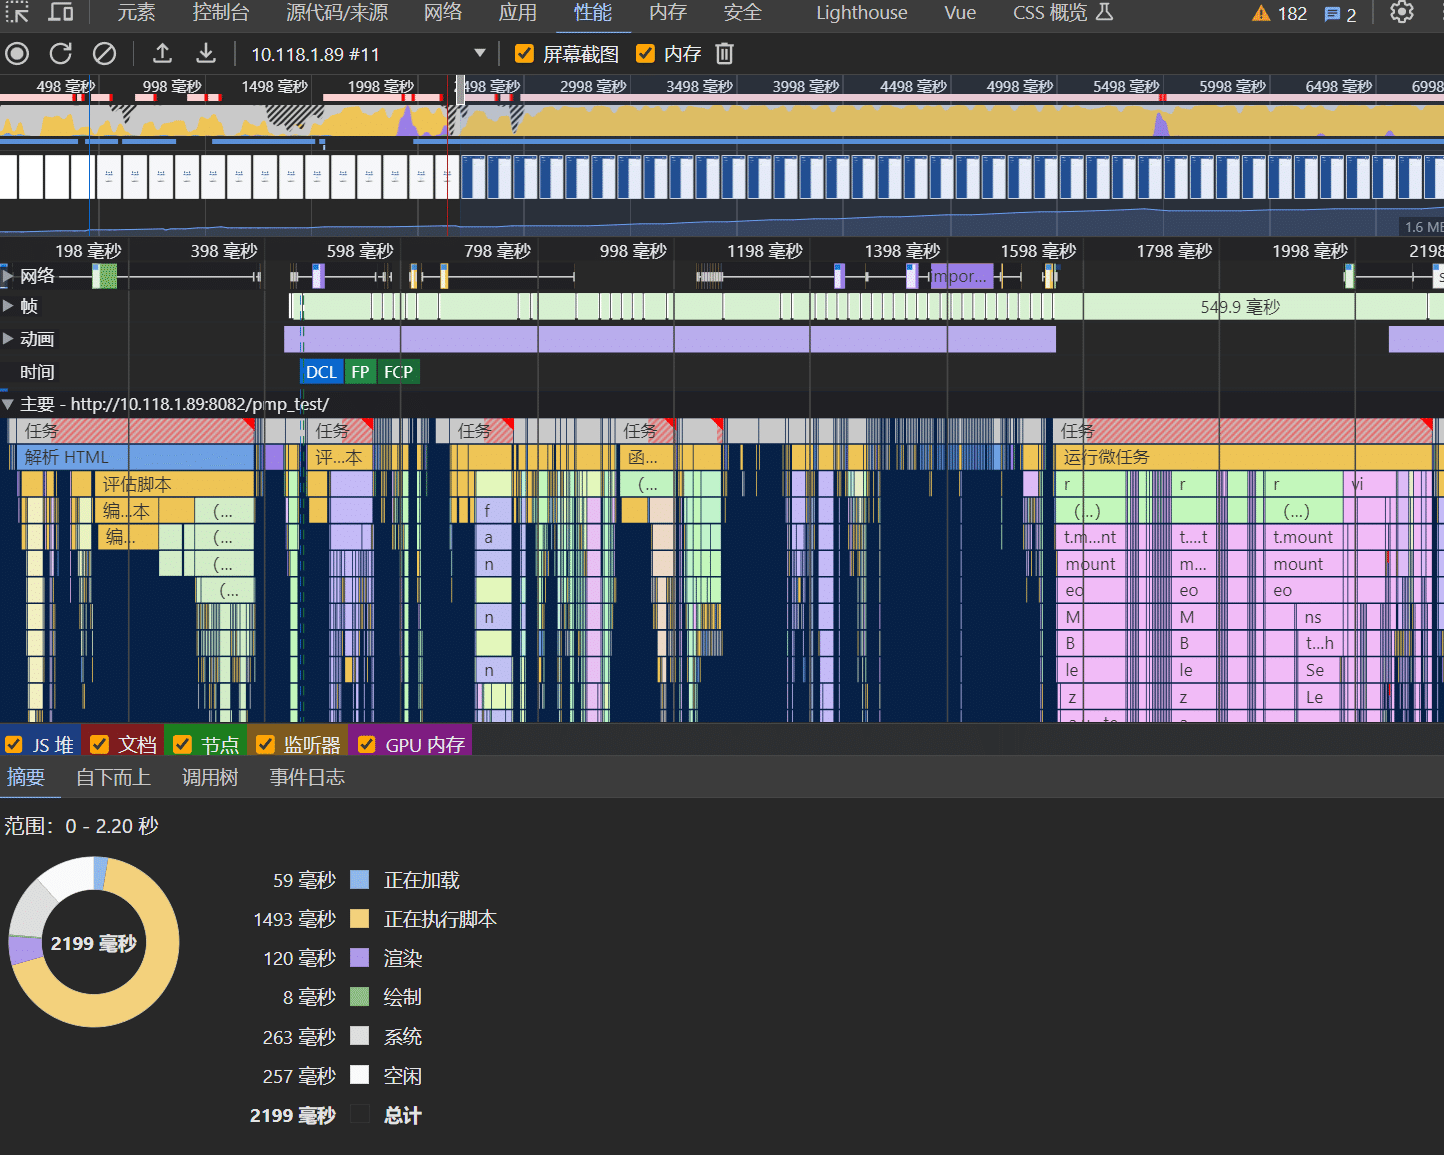
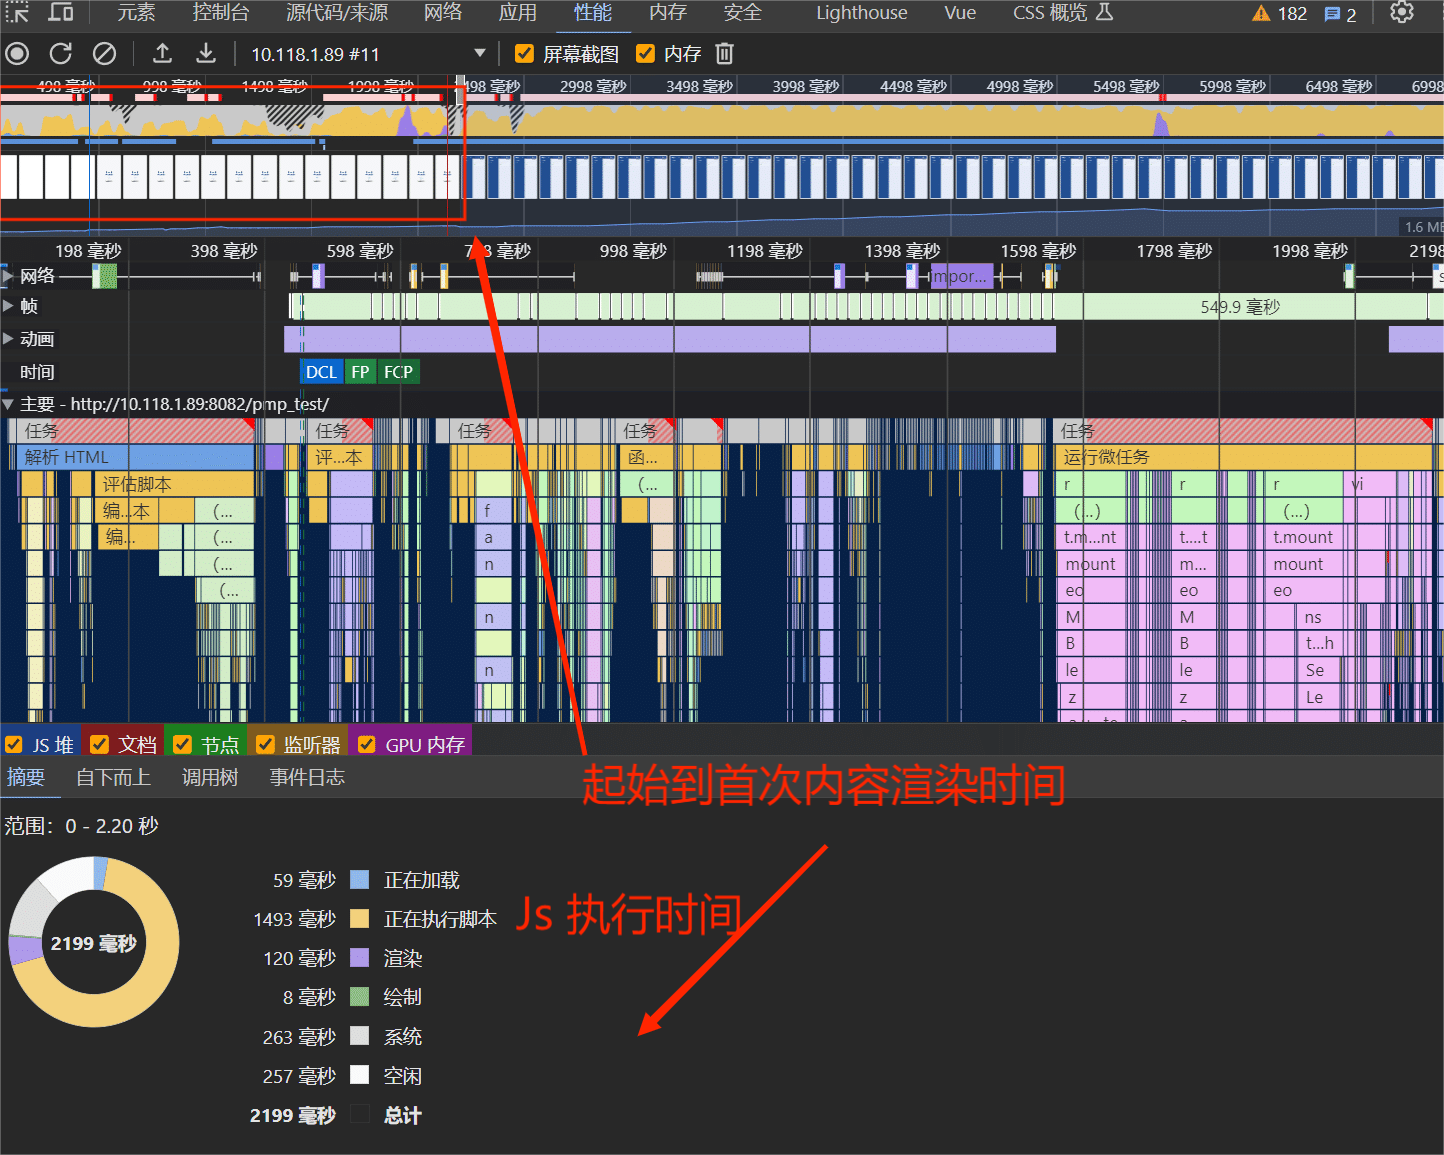
feat: 修改一次后台管理性能优化文章

diff --git a/docs/performance/一次管理后台的渲染优化.md b/docs/performance/一次管理后台的渲染优化.md
@@ -52,29 +52,48 @@
 
 ### DOM 渲染分析
 
-* 打开待分析页面，点击 F12 ，使用 Chrome 性能分析工具，对页面进行录制：
+#### **页面渲染录制**
 
-  * ![分析过程](../images/分析过程.gif)
+打开待分析页面，点击 F12 ，使用 Chrome 性能分析工具，对页面进行录制：
 
-* 结果分析：
+* ![分析过程](../images/分析过程.gif)
 
-  * 页面初始加载到完成全流程分析：
+#### **结果分析**
 
-    ![image-20231031161423297](../images/pmp-页面初始加载到完成全流程分析.png)
+##### **白屏时间分析**
 
-  * 白屏时间分析：![image-20231031161456624](../images/pmp-页面初始加载到完成全流程分析1.png)
+![image-20231031161456624](../images/pmp-页面初始加载到完成全流程分析1.png)
 
-    * 根据分析结果可知，首屏白屏时间总耗时 2199ms ，其中 js 耗时占比最高：1493ms；
+> 通过 Chrome 分析工具选取上半部分时间片，选取白屏时间和loading时间段（在起始到显示初始页面之间），查看摘要：
+>
+> * 首屏白屏时间总耗时 2199ms;
+> * JavaScript 执行时间为1493ms；
 
-  * 首屏显示到渲染完成分析：
-  
-    ![image-20231031161705009](../images/pmp-页面初始加载到完成全流程分析2.png)
-  
-    * 根据分析结果可知，首屏白屏时间总耗时 2199ms ，其中 js 耗时占比最高：1493ms；
+
+
+##### **首屏显示到渲染完成分析**
+
+![image-20231031161705009](../images/pmp-页面初始加载到完成全流程分析2.png)
+
+> 通过 Chrome 分析工具选取上半部分时间片，选取初始显示到全部内容绘制时间，查看摘要：
+>
+> * 总耗时 5036ms;
+> * JavaScript 执行时间为 4847ms；
+
+通过以上两段时间分析发现，从白屏到所有内容显示，总耗时为:  `2199ms +  5036ms`，JavaScript 执行总时间为`1493ms + 4847ms`；
+
+因此可以初步定位为 JavaScript  执行时间太长，可以通过查看该页面的业务代码中 JavaScript  代码分析原因。
 
 ### JavaScript 执行时间分析
 
-### 图片加载分析
+通过以上 Chrome 工具性能分析发现，是该页面的 JavaScript  执行时间太长，通过打开该页面业务逻辑代码查看：
 
-### 缓存分析
+1. 查看服务端接口，返回二维数组，该二维数组保存是的页面组件的配置信息；处理逻辑为通过服务端返回页面配置信息，动态生成页面内的表单组件；
+2. 查看服务端接口数据处理代码发现处理逻辑Bug：将服务端返回的二维数组遍历分块处理，填充成三维数组！然后遍历三维数组生成表单组件配置信息。直接将原本 O(n^2)  时间复杂度升级为 O(n^3);
+
+处理方案：通过使用 Map 表分块处理二维数组，将二维数组转化为 map 表。
+
+处理后再次通过 chrome 工具屏幕录制分析，发现 JavaScript 执行时间为 1287ms；
+
+
 
